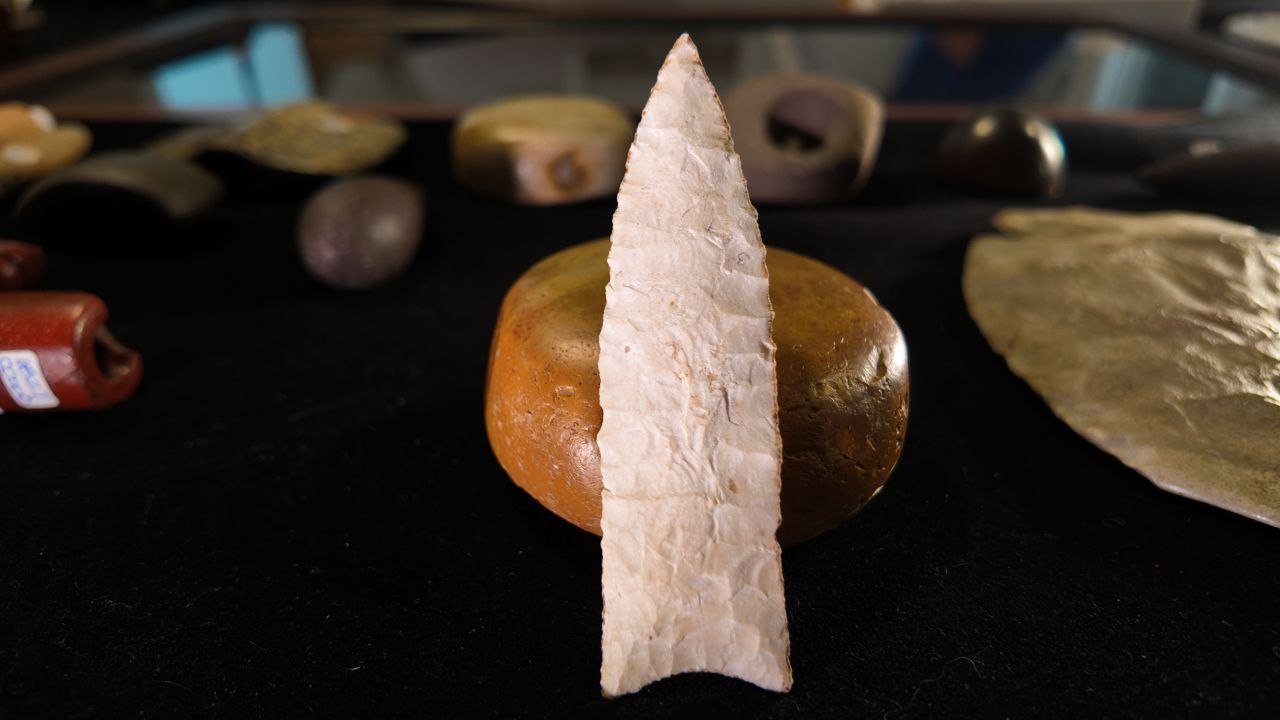
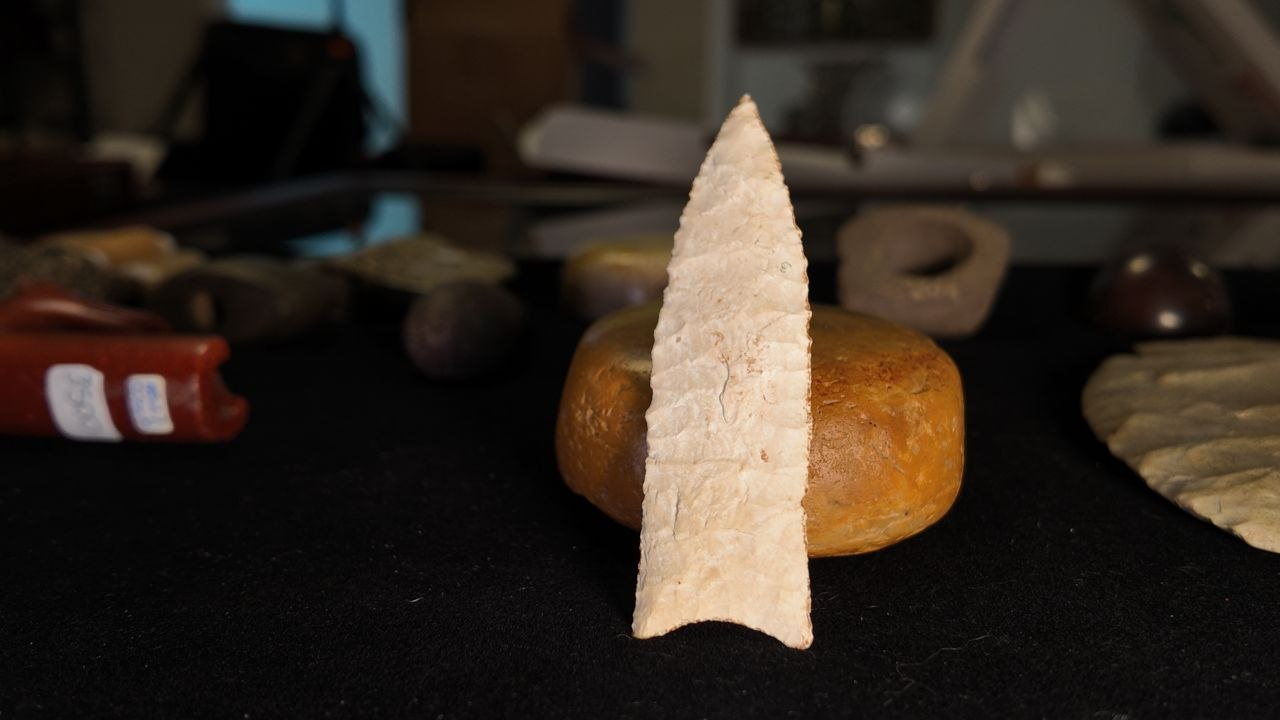
Add Pink Quartz Butterfly Bannerstone (T1 hero) + sort solds to bottom on catalog
NEW CATALOG ITEM — quartz-banner-cosach-1917
- Pink translucent quartz butterfly bannerstone
- Two rarities in one piece: quartz (rarest bannerstone material) +
  butterfly (rarest bannerstone form) + a third rarity in the
  pink/peach coloration itself
- Provenance: only what is physically on the piece is documented
  (red-bordered 'M.S.C.' oval sticker, 'MIKE ECK' pencil note,
  white round '1917 / CUSICK / CB50' sticker; back tags
  '7,500' and 'Ex Eckler / Owen')
- No third-party COA — explicitly disclosed
- Starting bid: $7,500 (matches the back tag)
- Tier: T1 Hero / Showcase
- 4 catalog images shipped: face, edge, perforation, back
- Placed as the 2nd catalog entry (right after Cuckler butterfly,
  pairing the two T1 bannerstone heroes)

DESCRIPTION HONESTY (per Bill: 'don't invent anything')
- 'What we will not invent' paragraph explicitly states the chain
  beyond the stickers is not on file
- Lifetime Guarantee applies but starting bid is set by Nick, not
  an appraiser
- '1917 / CUSICK (or similar)' parenthetical acknowledges the
  image resolution limits on the sticker text

CATALOG SORT-TO-BOTTOM (per Bill: 'put the solds on the catalog
page to the bottom as well')
- renderGrid() now does .slice().sort() after the existing filters
- Comparator puts active (false) before sold (true) with stable
  ordering preserved within each group
- Existing .sold-card CSS (55% opacity, grayscale) handles the
  visual treatment
[…]

diff --git a/index.html b/index.html
@@ -911,6 +911,25 @@
                     specs: {'Material':'Quartz (rarest of bannerstone materials)','Origin':'Illinois','Period':'Archaic · ~3,000–5,000 BP','Culture':'Archaic','Type':'Butterfly Bannerstone','Dimensions':'TBD — measure on intake','Cuckler Catalog #':'3287 (sticker on piece)','Provenance':'Gary Cuckler (#3287) → Tommy Beutell → Perry Hansen → Barn Burner Relics','Notable Feature':'Quartz — rarest of all bannerstone materials; butterfly form — rarest of bannerstone types','Condition':'Two small restoration spots completed by Gary Cuckler (disclosed, photographed in image #4)','Starting Bid':'$7,500','Tier':'T1 — Hero / Showcase (no BIN)','Authenticity':'Lifetime Guarantee'}
                 },
                 {
+                    id: 'quartz-banner-cosach-1917',
+                    title: 'Quartz Butterfly Bannerstone — Pink Quartz',
+                    subtitle: 'Pink Translucent Quartz · Archaic · Provenance Stickers Preserved',
+                    price: 'Showcase — Anchor TBD',
+                    period: 'Archaic · ~3,000–5,000 BP',
+                    tag: 'Featured',
+                    category: 'Bannerstones',
+                    cardFields: {
+                        origin: 'TBD — provenance stickers preserved on piece',
+                        material: 'Pink Translucent Quartz (warm peach coloration)',
+                        period: 'Archaic · ~3,000–5,000 BP',
+                        dimensions: 'TBD — measure on intake (mid-sized, ~4–5\" estimate)'
+                    },
+                    images: ['images/quartz-banner-1.jpg', 'images/quartz-banner-2.jpg', 'images/quartz-banner-3.jpg', 'images/quartz-banner-4.jpg'],
+                    auctionLiveUrl: 'auction.html',
+                    description: '<p>A <strong>pink translucent quartz butterfly bannerstone</strong> — a rarity-on-a-rarity. Quartz is the rarest of all bannerstone materials (hard, brittle, notoriously difficult to work), and butterfly is the rarest of bannerstone forms (requires bilateral symmetry refined enough to read as wings from any angle). Both rarities in a single piece is exceptional; a third rarity sits in the stone itself — the warm peach-pink coloration that distinguishes this piece from the more typical honey-amber quartz. The piece shows subtle banding across both wings and a clean lenticular cross-section visible in profile.</p><p>The piece is sold with its <strong>documented collector stickers and tags preserved in place</strong> — a museum-record convention rather than a stripped-clean convention. Visible on the face: a red-bordered oval sticker reading "M.S.C." (institutional/collection tag), a handwritten pencil notation ("MIKE ECK" with partial number), and a white round sticker reading "1917" with "CUSICK" (or similar) and "CB50" — a numbered catalog tag from a previous collection. Visible on the back: a handwritten paper tag reading "7,500" (the prior asking price) and a smaller provenance tag reading "Ex Eckler / Owen." These tags are part of the artifact\'s documented history and have been intentionally left in place.</p><p>The central perforation is drilled biconically — visible in image #3 as the hourglass-shaped hole characteristic of Archaic-era drilling technique (the standard before conical drilling became dominant). This is the diagnostic knapping signature of the Archaic period, ~3,000–5,000 years before present.</p><p><strong>What we will not invent:</strong> this piece does not carry a third-party Certificate of Authenticity. The provenance chain beyond what\'s physically on the piece is not on file — we are documenting only what the stickers and tags show, not a multi-collector named chain we cannot verify. Lifetime Authenticity Guarantee applies; starting bid is set by Nick, not by an appraiser.</p><p><strong>Starting bid: $7,500.</strong> This piece is a T1 hero — featured in the showcase auction, scheduled anchor slot. It is not available for buy-it-now.</p>',
+                    specs: {'Material':'Pink Translucent Quartz (warm peach coloration, subtle banding)','Origin':'TBD — provenance stickers preserved on piece','Period':'Archaic · ~3,000–5,000 BP','Culture':'Archaic','Type':'Butterfly Bannerstone (single-hole, biconical perforation)','Dimensions':'TBD — measure on intake','Provenance Stickers on Piece':'Red-bordered oval "M.S.C." tag; handwritten "MIKE ECK" pencil note; white round sticker "1917 / CUSICK (or similar) / CB50"','Provenance Tag on Back':'Handwritten: "Ex Eckler / Owen" — previous collector trace','Notable Feature':'Quartz (rarest bannerstone material); butterfly form (rarest bannerstone type); pink/peach coloration (its own collector category); biconical perforation (Archaic-era drilling signature)','Starting Bid':'$7,500','Tier':'T1 — Hero / Showcase (no BIN)','Authentication Note':'No third-party COA on file; documented collector stickers/tags preserved as-is','Authenticity':'Lifetime Guarantee'}
+                },
+                {
                     id: 'hixton-eden',
                     title: 'Hixton Eared Eden Point',
                     subtitle: 'Translucent Hixton Silicified Sandstone · Jackson Co., WI',
@@ -1103,6 +1122,14 @@
         grid.innerHTML = products
             .filter(p => (currentCat === 'all' || p.category === currentCat))
             .filter(p => (currentPeriod === 'all' || classifyPeriod(p.period) === currentPeriod))
+            // Sort active pieces first (preserving their order), then sold pieces (preserving their order)
+            .slice() // copy so we don't mutate the source array
+            .sort((a, b) => {
+                const aSold = a.tag === 'Sold';
+                const bSold = b.tag === 'Sold';
+                if (aSold === bSold) return 0;  // stable within each group
+                return aSold ? 1 : -1;           // active (false) before sold (true)
+            })
             .map(p => {
             const imgSrc = p.images && p.images[0] ? p.images[0] : PLACEHOLDER;
             const tagHtml = p.tag ? `<span class="badge ${p.tag === 'Sold' ? 'sold' : p.tag === 'Featured' ? 'featured' : p.tag === 'New' ? 'new' : ''}">${p.tag}</span>` : '';

diff --git a/auction.html b/auction.html
@@ -490,7 +490,7 @@
         { src: 'images/incoming/2026-07-14-tuesday-auction/points-display-case-1.jpg' },
         { src: 'images/incoming/2026-07-14-tuesday-auction/points-display-case-2.jpg' },
         { src: 'images/incoming/2026-07-14-tuesday-auction/points-display-case-3.jpg' },
-        { src: 'images/incoming/plainview-goshen-burlington/photo-3-base-marking.jpg' },
+        { src: 'images/incoming/plainview-goshen-burlington/photo-1-hero.jpg' },
     ];
 
     // Sort active pieces first (preserving their order), then sold

diff --git a/images/incoming/quartz-banner-cosach-1917/provenance.md b/images/incoming/quartz-banner-cosach-1917/provenance.md
@@ -1,0 +1,55 @@
+# Quartz Butterfly Bannerstone — COSACH 1917
+
+## Title
+Quartz Butterfly Bannerstone — Pink Quartz
+
+## Material
+Pink/peach translucent quartz (warm coloration, subtle banding visible)
+
+## Form
+Butterfly bannerstone — two symmetrical horizontal wings with a narrowed central body, lenticular cross-section, biconical central perforation (drilled from both sides).
+
+## Provenance chain (what's visible on stickers)
+- Previous collector markings (preserved on piece):
+  - Red-bordered oval sticker reading "M.S.C." (institutional/collection tag)
+  - Handwritten pencil: "MIKE ECK" with partial number
+  - White round sticker: "1917" / "CUSICK" (or similar — image resolution unclear) / "CB50"
+  - Back tag (handwritten): "Ex Eckler / Owen"
+- Full previous-collector chain not verified; piece carries these documented stickers but a complete ownership trace beyond what's on the piece itself is not on file.
+
+## Authentication
+No third-party COA on file with the piece. Catalog marks (stickers/tags) preserved as found.
+
+## Dimensions
+Not measured at intake. Approximate size from photos: mid-sized bannerstone (4–5" range based on the river-stone pedestal it's resting on in photo-1; precise measurements TBD).
+
+## Period
+Archaic · ~3,000–5,000 BP (bannerstone horizon)
+
+## Culture
+Archaic
+
+## Type
+Butterfly Bannerstone (single-hole, biconical perforation)
+
+## Tier call
+T1 — Hero / Showcase
+
+## Starting price
+$7,500
+
+## Photo order
+1. Face-on view (front, full wings visible, stickers on face)
+2. Edge-on profile (lenticular cross-section)
+3. Top/end view through perforation (biconical drilling visible)
+4. Back/bottom with price tags and provenance tag
+
+## Notes
+- Quartz is the rarest of all bannerstone materials — hard, brittle, difficult to work. Butterfly is the rarest of bannerstone forms. Both rarities in one piece is exceptional.
+- Stone shows warm peach-pink coloration with subtle banding; not the typical translucent honey-amber quartz. The pink/peach variant is its own collector category.
+- Biconical drilling indicates Archaic-era workmanship (the standard before conical drilling became dominant).
+- Provenance depth is shallow by BBR standards — only what's physically on the piece is documented. No COA, no third-party authentication. Honest disclosure is appropriate here.
+
+---
+*Created: July 14, 2026*
+*Source: Bill Thorpe in Telegram*